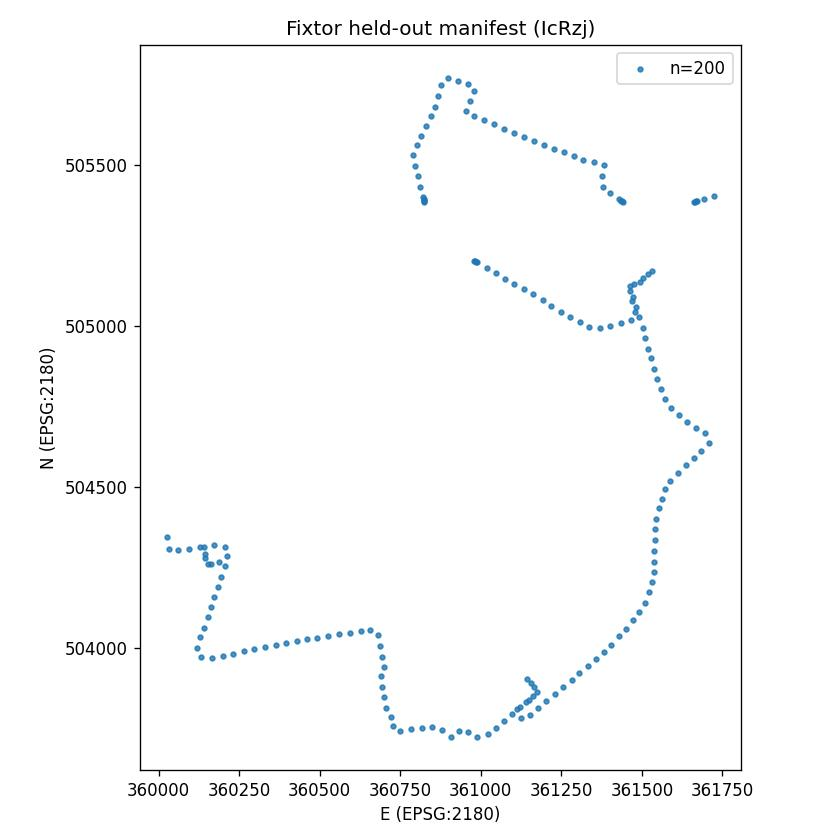
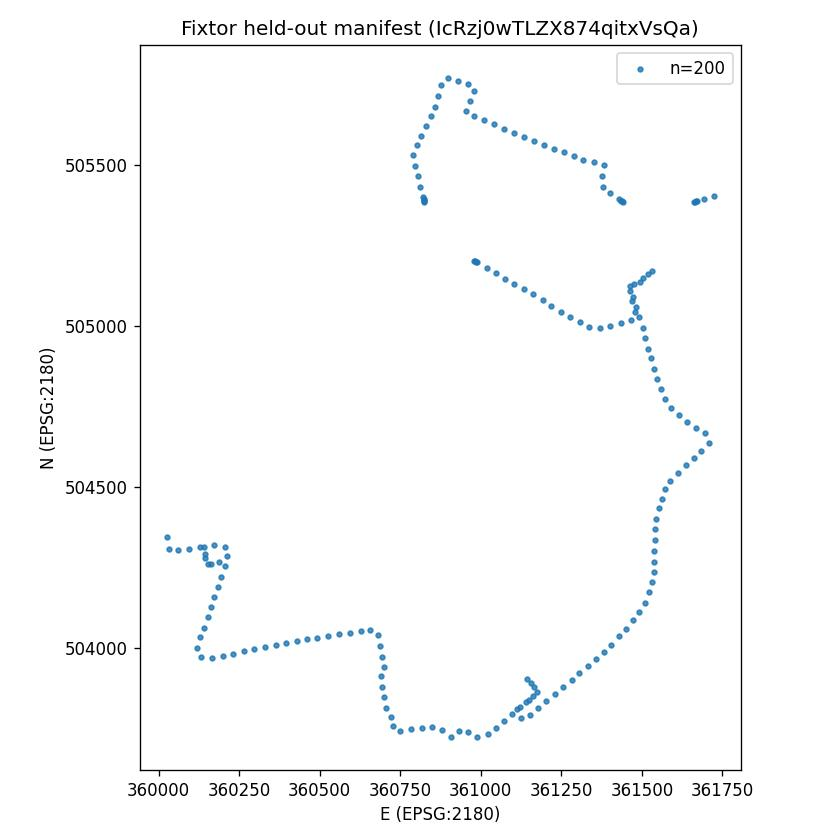
track: SE(2) particle filter; coarse.vote_heatmap factored out (NLL unchanged, regression-tested); SE(2) smoke record

Changed region(s): [[0.2167, 0.0, 0.8357, 0.0619]]

diff --git a/src/bevloc/model/coarse.py b/src/bevloc/model/coarse.py
@@ -88,13 +88,34 @@ def neighbour_hinge(logits, tgt, radius, margin=1.0):
     return torch.cat(terms, 1).mean()
 
 
+def vote_heatmap(gm_cls, gm_certainty=None, matchable=None):
+    """Certainty-weighted soft vote of all query patches: (B, K, K) log-probabilities over the
+    reference grid. This is the quantity RANSAC ultimately votes for and the observation a
+    particle filter reads (bevloc.track)."""
+    B, K2, h, w = gm_cls.shape
+    k = int(round(K2 ** 0.5))
+    if k * k != K2:
+        raise ValueError(f"gm_cls channels {K2} not a square")
+    log_p = F.log_softmax(gm_cls.float().permute(0, 2, 3, 1), dim=-1)      # (B, h, w, K2)
+    if gm_certainty is not None:
+        c = gm_certainty[:, 0] if gm_certainty.ndim == 4 else gm_certainty
+        weight = torch.sigmoid(c.float())
+    else:
+        weight = gm_cls.new_ones(B, h, w, dtype=torch.float32)
+    if matchable is not None:
+        weight = weight * matchable.float()
+    wsum = weight.reshape(B, -1).sum(-1).clamp_min(1e-6)
+    heat = (log_p * weight[..., None]).reshape(B, -1, K2).sum(1) / wsum[:, None]
+    return F.log_softmax(heat, dim=-1).reshape(B, k, k)
+
+
 def pose_heatmap_nll(gm_cls, H, matchable=None, gm_certainty=None, local_radius=6,
                      query_size=224, patch=16, ref_size=896):
     """OrienterNet-style NLL of the GT vehicle cell under a soft pose heatmap.
 
     Sat-RoMa's ``gm_cls`` is per-patch over a fixed K×K reference grid (K=56). We
-    certainty-weight the per-patch softmaxes into one (B, K, K) heatmap, optionally
-    window it around the GT centre cell, and take −log p(GT). This trains the
+    certainty-weight the per-patch softmaxes into one (B, K, K) heatmap (``vote_heatmap``),
+    optionally window it around the GT centre cell, and take −log p(GT). This trains the
     quantity RANSAC ultimately votes for, not each patch in isolation.
 
     Returns (nll scalar, stats dict). Empty / no-match batches return 0 loss.
@@ -103,23 +124,10 @@ def pose_heatmap_nll(gm_cls, H, matchable=None, gm_certainty=None, local_radius=
     k = int(round(K2 ** 0.5))
     if k * k != K2:
         raise ValueError(f"gm_cls channels {K2} not a square")
-    # Soft votes: (B, h, w, K2)
-    log_p = F.log_softmax(gm_cls.float().permute(0, 2, 3, 1), dim=-1)
-    if gm_certainty is not None:
-        c = gm_certainty[:, 0] if gm_certainty.ndim == 4 else gm_certainty
-        weight = torch.sigmoid(c.float())
-    else:
-        weight = gm_cls.new_ones(B, h, w)
-    if matchable is not None:
-        weight = weight * matchable.float()
-    # logsumexp over patches with weights: heatmap logits (B, K2)
-    # Σ_i w_i log_p_i  is not a log-prob; use weighted mean of log_p then log_softmax.
-    wsum = weight.reshape(B, -1).sum(-1).clamp_min(1e-6)
-    if float(wsum.max()) <= 1e-6 or (matchable is not None and not bool(matchable.any())):
+    if matchable is not None and not bool(matchable.any()):
         z = gm_cls.sum() * 0.0
         return z, dict(pose_nll=0.0, pose_err=float("nan"), n=0)
-    weighted = (log_p * weight[..., None]).reshape(B, -1, K2).sum(1) / wsum[:, None]
-    heat = weighted  # (B, K2) unnormalised log-votes
+    heat = vote_heatmap(gm_cls, gm_certainty, matchable).reshape(B, K2)   # log-probs, constant shift vs raw votes
     # GT vehicle centre (query image centre) → reference cell
     centre = torch.tensor([query_size / 2 - 0.5, query_size / 2 - 0.5, 1.0],
                           device=H.device, dtype=H.dtype)

diff --git a/src/bevloc/track/pf.py b/src/bevloc/track/pf.py
@@ -1,0 +1,62 @@
+"""Minimal SE(2) particle filter in the map frame (E, N, up-bearing degrees CW from grid north).
+
+Motion is applied in the ego frame (x forward, y left), matching ``bevloc.data.mapillary``.
+Weights are kept as log-weights; systematic resampling when the effective sample size drops
+below half the particle count.
+"""
+from __future__ import annotations
+
+import numpy as np
+
+
+class SE2ParticleFilter:
+    def __init__(self, n=512, seed=0):
+        self.n = int(n)
+        self.rng = np.random.default_rng(seed)
+        self.particles = np.zeros((self.n, 3))      # e, n, yaw_deg
+        self.logw = np.zeros(self.n)
+
+    def init(self, en, yaw_deg, sigma_xy=10.0, sigma_yaw=5.0):
+        self.particles[:, :2] = np.asarray(en, float) + self.rng.normal(0, sigma_xy, (self.n, 2))
+        self.particles[:, 2] = (float(yaw_deg) + self.rng.normal(0, sigma_yaw, self.n)) % 360.0
+        self.logw[:] = 0.0
+
+    def predict(self, dx, dy, dyaw_deg, sigma_xy=1.0, sigma_yaw=1.0):
+        """Ego-frame motion (dx forward, dy left, dyaw) with additive Gaussian noise per particle."""
+        b = np.radians(self.particles[:, 2])
+        fwd = np.stack([np.sin(b), np.cos(b)], 1)
+        left = np.stack([-np.cos(b), np.sin(b)], 1)
+        dxs = float(dx) + self.rng.normal(0, sigma_xy, self.n)
+        dys = float(dy) + self.rng.normal(0, sigma_xy, self.n)
+        self.particles[:, :2] += dxs[:, None] * fwd + dys[:, None] * left
+        self.particles[:, 2] = (self.particles[:, 2] + float(dyaw_deg)
+                                + self.rng.normal(0, sigma_yaw, self.n)) % 360.0
+
+    def update(self, loglik):
+        self.logw += np.asarray(loglik, float)
+        self.logw -= self.logw.max()
+        if self.ess() < 0.5 * self.n:
+            self._resample()
+
+    def weights(self):
+        w = np.exp(self.logw)
+        return w / w.sum()
+
+    def ess(self):
+        w = self.weights()
+        return 1.0 / float((w ** 2).sum())
+
+    def _resample(self):
+        w = self.weights()
+        pos = (self.rng.random() + np.arange(self.n)) / self.n
+        idx = np.searchsorted(np.cumsum(w), pos)
+        self.particles = self.particles[np.minimum(idx, self.n - 1)].copy()
+        self.logw[:] = 0.0
+
+    def estimate(self):
+        """Weighted mean position and circular-mean bearing."""
+        w = self.weights()
+        en = (w[:, None] * self.particles[:, :2]).sum(0)
+        b = np.radians(self.particles[:, 2])
+        yaw = np.degrees(np.arctan2((w * np.sin(b)).sum(), (w * np.cos(b)).sum())) % 360.0
+        return en, float(yaw)

diff --git a/tests/test_vote_heatmap.py b/tests/test_vote_heatmap.py
@@ -1,0 +1,51 @@
+"""vote_heatmap is a normalised soft vote; pose_heatmap_nll is unchanged by the refactor."""
+from __future__ import annotations
+
+import torch
+
+from bevloc.model.coarse import pose_heatmap_nll, vote_heatmap
+
+
+def _reference_nll(gm_cls, H, matchable, cert, local_radius=6, query_size=224, ref_size=896):
+    """The pre-refactor computation (2026-09-23), kept verbatim as the oracle."""
+    import torch.nn.functional as F
+    from bevloc.model.coarse import window_logits
+    B, K2, h, w = gm_cls.shape
+    k = int(round(K2 ** 0.5))
+    log_p = F.log_softmax(gm_cls.float().permute(0, 2, 3, 1), dim=-1)
+    c = cert[:, 0] if cert.ndim == 4 else cert
+    weight = torch.sigmoid(c.float()) * matchable.float()
+    wsum = weight.reshape(B, -1).sum(-1).clamp_min(1e-6)
+    heat = (log_p * weight[..., None]).reshape(B, -1, K2).sum(1) / wsum[:, None]
+    centre = torch.tensor([query_size / 2 - 0.5, query_size / 2 - 0.5, 1.0], dtype=H.dtype)
+    p = H.float() @ centre
+    xy = p[:, :2] / p[:, 2:3]
+    s = float(ref_size) / k
+    col = torch.floor((xy[:, 0] + 0.5) / s).long()
+    row = torch.floor((xy[:, 1] + 0.5) / s).long()
+    tgt = row.clamp(0, k - 1) * k + col.clamp(0, k - 1)
+    pred = window_logits(heat, tgt, local_radius)
+    return F.cross_entropy(pred, tgt), heat.argmax(1)
+
+
+def test_vote_heatmap_is_a_log_distribution_peaked_at_the_common_vote():
+    B, k, h, w = 2, 8, 3, 3
+    gm = torch.zeros(B, k * k, h, w)
+    gm[:, 27] = 6.0                                   # every patch votes for cell 27 = (row 3, col 3)
+    heat = vote_heatmap(gm)
+    assert heat.shape == (B, k, k)
+    assert torch.allclose(heat.exp().sum(dim=(1, 2)), torch.ones(B), atol=1e-5)
+    assert int(heat[0].reshape(-1).argmax()) == 27
+
+
+def test_pose_heatmap_nll_matches_pre_refactor_oracle():
+    torch.manual_seed(0)
+    B, k, h, w = 2, 56, 14, 14
+    gm = torch.randn(B, k * k, h, w) * 3
+    cert = torch.randn(B, 1, h, w)
+    matchable = torch.rand(B, h, w) > 0.3
+    H = torch.tensor([[[1.0, 0.0, 300.0], [0.0, 1.0, 400.0], [0.0, 0.0, 1.0]]] * B)
+    nll, st = pose_heatmap_nll(gm, H, matchable=matchable, gm_certainty=cert, local_radius=6)
+    ref_nll, ref_am = _reference_nll(gm, H, matchable, cert)
+    assert abs(float(nll) - float(ref_nll)) < 1e-4
+    assert st["n"] == B

diff --git a/tests/test_pf.py b/tests/test_pf.py
@@ -1,0 +1,31 @@
+"""SE(2) particle filter on a synthetic route."""
+from __future__ import annotations
+
+import numpy as np
+
+from bevloc.track.pf import SE2ParticleFilter
+
+
+def test_pf_tracks_a_straight_route_with_gaussian_likelihood():
+    rng = np.random.default_rng(0)
+    pf = SE2ParticleFilter(n=400, seed=0)
+    truth = np.array([100.0, 200.0])
+    yaw = 30.0
+    pf.init(truth + rng.normal(0, 5, 2), yaw + 3.0, sigma_xy=10.0, sigma_yaw=5.0)
+    errs = []
+    for _ in range(40):
+        truth = truth + 2.0 * np.array([np.sin(np.radians(yaw)), np.cos(np.radians(yaw))])
+        pf.predict(2.0 + rng.normal(0, 0.2), rng.normal(0, 0.2), rng.normal(0, 0.5), sigma_xy=0.5, sigma_yaw=1.0)
+        d = np.linalg.norm(pf.particles[:, :2] - truth, axis=1)
+        pf.update(-0.5 * (d / 3.0) ** 2)
+        en, _ = pf.estimate()
+        errs.append(np.linalg.norm(en - truth))
+    assert np.median(errs[10:]) < 1.5
+    assert pf.ess() > 0.2 * 400
+
+
+def test_pf_yaw_estimate_wraps_around_north():
+    pf = SE2ParticleFilter(n=200, seed=1)
+    pf.init((0.0, 0.0), 359.0, sigma_xy=1.0, sigma_yaw=3.0)
+    _, yaw = pf.estimate()
+    assert min(abs(yaw - 359.0), abs(yaw + 1.0)) < 2.0      # circular mean, not ~180
